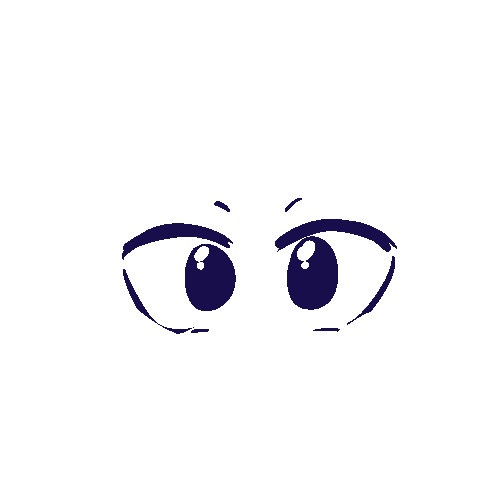
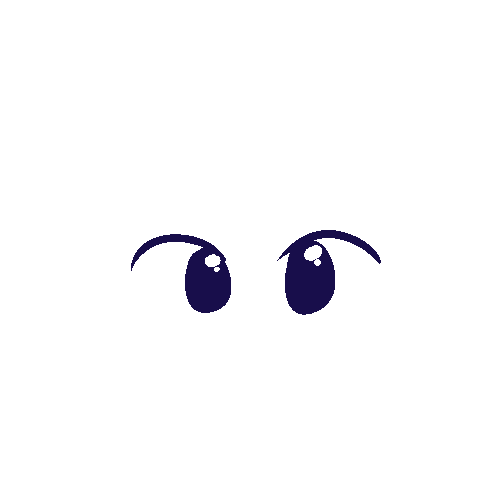
added some stuff

diff --git a/main.py b/main.py
@@ -1,4 +1,5 @@
 import pygame
+import random
 
 # omg let's make this oopmaxxing
 
@@ -17,6 +18,10 @@ cyan = (27,238,248)
 pink = (244, 147, 242)
 orange = (255, 198, 204)
 yellow = (228,250,202)
+
+counts = [("body",4), ("eye", 6), ("mouth", 7)]
+# one less than amount for indexing
+# haha six seven
 
 
 class BorderThing(pygame.sprite.Sprite):
@@ -46,43 +51,72 @@ for i in range(6):
 
 pfpArea = pygame.Surface((500,500))
 pfpArea.fill(palette[bgindex])
+pfpArea.blit(pygame.image.load("art/halftonebg.png").convert_alpha(),(0,0))
+
 
 basecat = pygame.image.load(f"art/body{bodyindex}.png").convert_alpha()
 pfpArea.blit(basecat,(0,0))
 
-eyes = pygame.image.load("art/eye2png.png").convert_alpha()
+eyes = pygame.image.load("art/eye0.png").convert_alpha()
 pfpArea.blit(eyes,(0,0))
 
+mouth = pygame.image.load("art/mouth0.png").convert_alpha()
+pfpArea.blit(mouth,(0,0))
+
 screen.blit(pfpArea,(20,20))
-pygame.draw.rect(screen, black, [20, 20, 500, 500], 1)
+# pygame.draw.rect(screen, black, [20, 20, 500, 500], 1)
 
 font = pygame.font.Font("ui/comic.ttf",20)
 title = font.render("hi welcome to my stoopid lah pfp maker", True, black)
 screen.blit(title, (540,60))
-text1 = font.render("in this game you dress up a cat that does", True, black)
-text2 = font.render("NOT look suspiciously like a boykisser", True, black)
+text1 = font.render("in this game you dress up a cat.", True, black)
+text2 = font.render("", True, black)
 screen.blit(text1, (540, 90))
 screen.blit(text2, (540, 110))
 
+def updatePfp():
+    global pfpArea
+    global basecat,eyes, mouth
+    global screen
+    pfpArea.fill(palette[bgindex])
+    pfpArea.blit(pygame.image.load("art/halftonebg.png").convert_alpha(),(0,0))
+    pfpArea.blit(basecat,(0,0))
+    pfpArea.blit(eyes,(0,0))
+    pfpArea.blit(mouth,(0,0))
+    screen.blit(pfpArea,(20,20))
+
+def randomPfp():
+    global pfpArea
+    global basecat,eyes, mouth
+    global counts
+    global screen
+    pfpArea.fill(palette[bgindex])
+    pfpArea.blit(pygame.image.load("art/halftonebg.png").convert_alpha(),(0,0))
+    for thing in counts:
+        pfpArea.blit(pygame.image.load(f"art/{thing[0]}{random.randint(0,thing[1])}.png").convert_alpha(),(0,0))
+        
+    screen.blit(pfpArea,(20,20))
 
 running = True
 while running:
     pygame.display.flip()
     for event in pygame.event.get():
-        if event.type == pygame.QUIT:
+        if (event.type == pygame.QUIT):
             running = False
         # idea: select the thing to change and use arrow keys???
         # later
-        if event.type == pygame.KEYDOWN:
-            if event.key == pygame.K_LEFT:
+        if (event.type == pygame.KEYDOWN):
+            if (event.key == pygame.K_LEFT):
                 bgindex+= 1
                 if(bgindex > 7):
                     bgindex = 0
                 pfpArea.fill(palette[bgindex])
-                basecat = pygame.image.load(f"art/body{bodyindex}.png").convert_alpha()
-                pfpArea.blit(basecat,(0,0))
-                pfpArea.blit(eyes,(0,0))
-                screen.blit(pfpArea,(20,20))
+                pfpArea.blit(pygame.image.load("art/halftonebg.png").convert_alpha(),(0,0))
+                # basecat = pygame.image.load(f"art/body{bodyindex}.png").convert_alpha()
+                updatePfp()
+            elif (event.key == pygame.K_RIGHT):
+                randomPfp()
+
     # keys = pygame.key.get_pressed()
 
     # if(keys[pygame.K_a]):

diff --git a/README.md b/README.md
@@ -1,11 +1,14 @@
 # silly-pfp-maker
-A silly pfp maker for Tailor, a ysws (and to learn pygame)
+A silly pfp maker for horizons (and to learn pygame)
 
 # the backstory
 It is the last day of [Fallout](fallout.hackclub.com). Kaylee and Julia, in order to get back to america, need money. They say something about weighted grants. So I said with great cheer "I'll ship to your ysws!!". A few hours later it is 1 am and I am learning pygame. But kaylee is not getting that weighted grant sorry.
 
 # the backstory (part 2)
 It is now July 9th and it is 3 am in japan. I am going to sleep and ship this to horizons probably instead. I drew most of the stuff on a plane ride so didn't lapse it rip. take this cooked initial commit!
+
+# the backstory (part 3)
+to be written when I finish this
 
 # how to play
 * clone this repo `git clone https://github.com/Herbeon/silly-pfp-maker.git`
